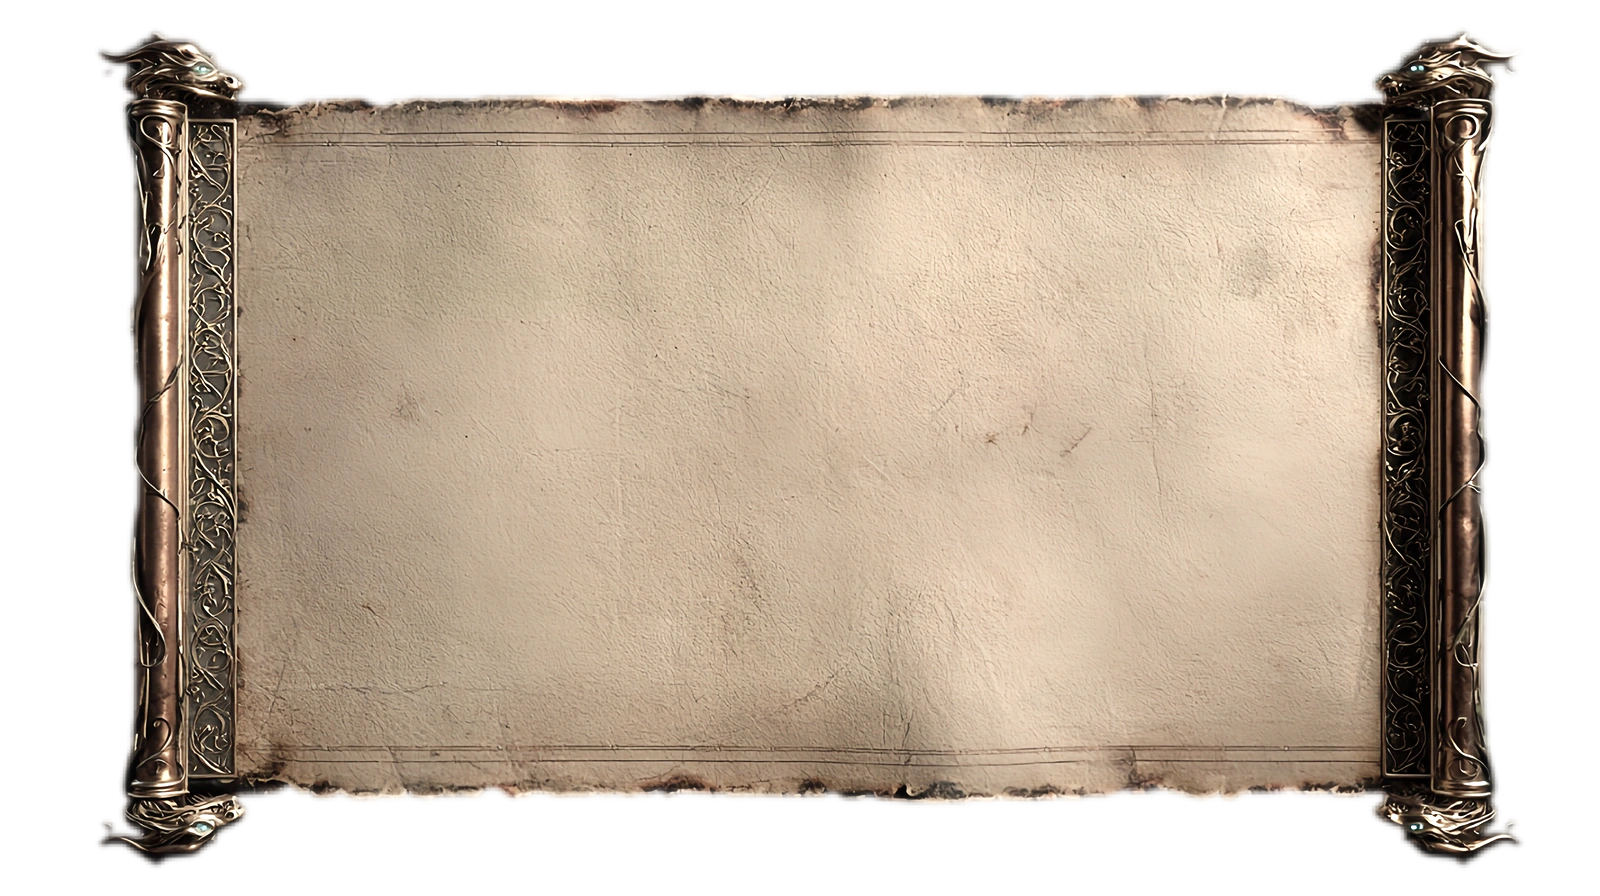
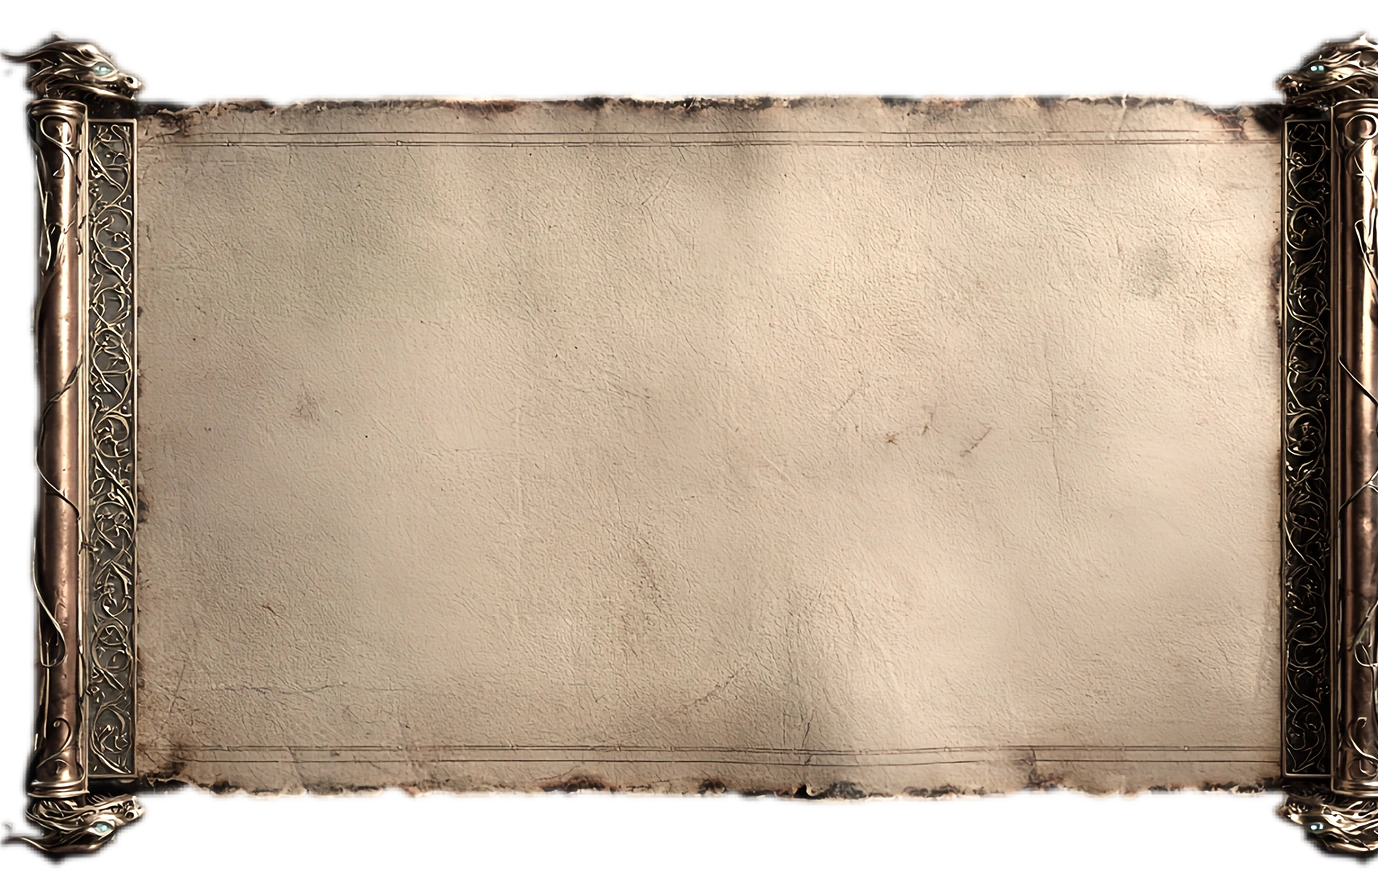
chore: 备份完整源码工程到 src 分支（React 18 + Vite 5 塔罗主题「奥术典籍馆」）

diff --git a/src/theme/pages.css b/src/theme/pages.css
@@ -83,6 +83,9 @@
 .chip.on { border-color: var(--teal); color: var(--teal-lt); background: rgba(31,90,82,.25); box-shadow: var(--glow-teal); }
 
 /* ── 答题界面 ── */
+/* 不用 flex 列：.practice-stage 还被 idle 空态与 settle 结算页两个分支复用，
+   改 flex + align-items:center 会连带改变它们的布局（按钮被拉伸/居中），
+   而竖直方向本来只差 ~7px（手机剩余空隙 14.8px，上下 28 / 36.8 已接近居中），不值得拿两个页面去换 */
 .practice-stage { position: relative; z-index: 1; min-height: 100vh; min-height: 100dvh; padding: 14px 12px 16px; max-width: 940px; margin: 0 auto; }
 .practice-top { display: flex; align-items: center; justify-content: space-between; gap: 12px; margin-bottom: 14px; padding: 0 4px; }
 .gem-row { display: flex; align-items: center; gap: 6px; flex-wrap: wrap; }
@@ -139,13 +142,16 @@
    中央羊皮纸会被 .q-face 自己的无缝纹理整块盖住，所以中心切片怎么拉都看不出来。 */
 .q-card {
   position: absolute; inset: 0; backface-visibility: hidden;
-  /* 龙首杆用降饱和提亮过的 p19-soft，且宽度从 52px 收到 36px：装饰退为氛围，不抢题目 */
-  border: 18px solid transparent; border-left-width: 36px; border-right-width: 36px; border-bottom-width: 24px;
-  border-image: url('/quiz-platform/img/p19-soft.webp') 125 256 179 256 fill / 18px 36px 24px 36px stretch;
+  /* p19-soft 已裁掉左右不对称的透明边（原图左 100px / 右 122px），现在元素盒 = 可见牌体，
+     投影与布局终于对齐。切片 250 配边框 36px → 统一缩放 k=0.144（top 125×k=18、bottom 179×k=25.8），
+     四角龙首零变形；素材左右杆本身不等宽（86 vs 104px），统一 k 下残留差异约 2.6px（0.7%）。 */
+  border: 18px solid transparent; border-left-width: 36px; border-right-width: 36px; border-bottom-width: 26px;
+  border-image: url('/quiz-platform/img/p19-soft.webp') 125 250 179 250 fill / 18px 36px 26px 36px stretch;
   filter: drop-shadow(0 18px 36px rgba(0,0,0,.55));
 }
 @media (max-width: 560px) {
-  .q-card { border-width: 12px 22px 16px 22px; border-image-width: 12px 22px 16px 22px; }
+  /* 同一个 k（=24/250=0.096）：top 125×k=12、bottom 179×k=17.2，四角仍不变形 */
+  .q-card { border-width: 12px 24px 17px 24px; border-image-width: 12px 24px 17px 24px; }
 }
 /* 牌面：铺无缝羊皮纸纹理（cover 等比裁切、不变形），题目直接写在卷轴上；
    inset:0 对应的是 border-image 的 padding box，刚好落在两道龙首杆之间 */
@@ -175,12 +181,12 @@
   background: url('/quiz-platform/img/p44.png') center / contain no-repeat; }
 /* 平滑滚动由 CSS 接管（组件里只下一次 scrollTo，不自写 rAF 补间，避免双重缓动）；
    overscroll-behavior:contain → 滚到边界不把滚动链传给页面（嵌套滚动在移动端的典型抖动源）；
-   scrollbar-gutter:stable → 预留滚动条槽位，答案出现后不会因为滚动条冒出而横向缩 5px 抖动；
+   scrollbar-gutter 必须用 **both-edges**：只写 stable 会在右侧单边预留 ~7px 槽位，
+   导致牌面内所有分区中心比牌面中心偏左 3.5px（实测值），两边都预留才是真居中；
    （prefers-reduced-motion 下降为 auto，由 global.css 的统一规则接管） */
 .q-face-scroll {
   flex: 1 1 auto; min-height: 0; overflow-y: auto; overflow-x: hidden;
-  scroll-behavior: smooth; overscroll-behavior: contain; scrollbar-gutter: stable;
-  padding-right: 2px;
+  scroll-behavior: smooth; overscroll-behavior: contain; scrollbar-gutter: stable both-edges;
 }
 .q-face-scroll::-webkit-scrollbar { width: 5px; }
 .q-face-foot { flex: 0 0 auto; padding-top: 8px; }
@@ -234,31 +240,26 @@
 .opt-row.right { border-color: var(--teal-dk); background: rgba(58,138,126,.26); color: #12332c; }
 .opt-row.wronged { border-color: var(--fault-lt); background: rgba(139,42,74,.2); color: #6d1f38; }
 .opt-row.missed { border: 1.5px dashed var(--teal-dk); color: var(--teal-dk); }
-/* 判断题：两张尖拱铜牌改为纵向堆叠、水平居中的宽幅横幅。
-   铜牌素材（378×640，比例 0.59）按自然比例做左侧徽章（auto 86%，不裁不拉），
-   横幅自身给暗金底+金线边框；因为两张竖版铜牌上下堆叠在手机上每张只剩 73px 宽（比横排更小），
-   只有改成宽幅才能同时满足“纵向堆叠 + 点击目标更大”。 */
-.judge-pair { display: flex; flex-direction: column; align-items: center; gap: 10px; margin-top: 4px; }
+/* 判断题 = 两张对立的竖版尖拱铜牌（素材 378×640，已归一化成同一画布），选中即被拿起。
+   还原为原版：铜牌素材铺满整个牌形（background-size:100% 100%）+ drop-shadow 贴合牌形，
+   不再用自做的渐变横幅/左侧徽章。“正确 / 错误”从贴底改为放在牌子正中间。 */
+.judge-pair { display: flex; gap: 12px; justify-content: center; align-items: flex-end; margin-top: 4px; }
 .judge-card {
-  position: relative; flex: 0 0 auto; width: min(70%, 320px);
-  /* 不用 aspect-ratio：16/9 在宽牌面上会把单张顶到 180px 高，两张叠起来 370px，
-     实测会把答案区挤到折叠线下（桌面 sh 684 > ch 649）。改用 cqw 限高，跟随牌面宽自适应 */
-  height: clamp(96px, 24cqw, 150px);
-  border: 1px solid rgba(184,150,58,.5); background-color: rgba(24,19,12,.9);
-  background-image: var(--judge-art), linear-gradient(160deg, rgba(46,37,22,.95), rgba(17,13,8,.97));
-  background-size: auto 86%, cover; background-position: 17% center, center; background-repeat: no-repeat;
-  display: flex; align-items: center; justify-content: center; padding-left: 22%;
-  box-shadow: inset 0 0 20px rgba(0,0,0,.55), 0 6px 16px rgba(0,0,0,.45);
-  transition: transform .22s var(--ease-pop), box-shadow .22s ease, border-color .22s ease, opacity .22s ease;
+  position: relative; flex: 0 1 auto; width: 46%; max-width: 190px; height: auto;
+  aspect-ratio: 378 / 640; border: none; background-color: transparent;
+  background-position: center; background-size: 100% 100%; background-repeat: no-repeat;
+  display: flex; align-items: center; justify-content: center;
+  filter: drop-shadow(0 10px 20px rgba(0,0,0,.5));
+  transition: transform .22s var(--ease-pop), filter .22s ease, opacity .22s ease;
 }
 .judge-label {
-  font-size: clamp(15px, 4.4cqw, 21px); font-weight: 700; letter-spacing: 6px; color: #f6efdb; padding: 0;
-  text-shadow: 0 1px 4px rgba(0,0,0,.95), 0 0 12px rgba(0,0,0,.7);
+  font-size: clamp(14px, 3.6cqw, 19px); font-weight: 700; letter-spacing: 4px; color: #f6efdb; padding: 0;
+  text-shadow: 0 1px 4px rgba(0,0,0,.95), 0 0 12px rgba(0,0,0,.75);
 }
-.judge-card:hover { transform: translateY(-3px); }
-.judge-card.j-true:hover, .judge-card.j-true.selected { transform: translateY(-3px) rotate(-.8deg) scale(1.02); border-color: rgba(90,168,156,.85); box-shadow: inset 0 0 20px rgba(0,0,0,.5), 0 0 22px rgba(90,168,156,.5); }
-.judge-card.j-false:hover, .judge-card.j-false.selected { transform: translateY(-3px) rotate(.8deg) scale(1.02); border-color: rgba(139,42,74,.9); box-shadow: inset 0 0 20px rgba(0,0,0,.5), 0 0 22px rgba(139,42,74,.5); }
-.judge-card.dimmed { opacity: .34; filter: grayscale(.65) brightness(.72); transform: scale(.97); }
+.judge-card:hover { transform: translateY(-6px); }
+.judge-card.j-true:hover, .judge-card.j-true.selected { transform: translateY(-6px) rotate(-1.6deg) scale(1.03); filter: drop-shadow(0 0 20px rgba(90,168,156,.85)) drop-shadow(0 10px 20px rgba(0,0,0,.5)); }
+.judge-card.j-false:hover, .judge-card.j-false.selected { transform: translateY(-6px) rotate(1.6deg) scale(1.03); filter: drop-shadow(0 0 20px rgba(139,42,74,.85)) drop-shadow(0 10px 20px rgba(0,0,0,.5)); }
+.judge-card.dimmed { opacity: .34; filter: grayscale(.65) brightness(.72); transform: scale(.94); }
 .judge-card:disabled { cursor: default; }
 .judge-card.j-true.selected .judge-label { color: #cfece4; }
 .judge-card.j-false.selected .judge-label { color: #e6c3cd; }

diff --git a/src/pages/Practice.jsx b/src/pages/Practice.jsx
@@ -297,7 +297,7 @@ export default function Practice() {
                     }
                     return (
                       <button key={label} disabled={answered} className={`judge-card ${cls} ${extra}`}
-                        style={{ '--judge-art': `url(${label === '正确' ? A.judgeCard.ok : A.judgeCard.no})` }}
+                        style={{ backgroundImage: `url(${label === '正确' ? A.judgeCard.ok : A.judgeCard.no})` }}
                         aria-pressed={judge === label} onClick={() => setJudge(label)}>
                         <span className="judge-label">{label}</span>
                       </button>
